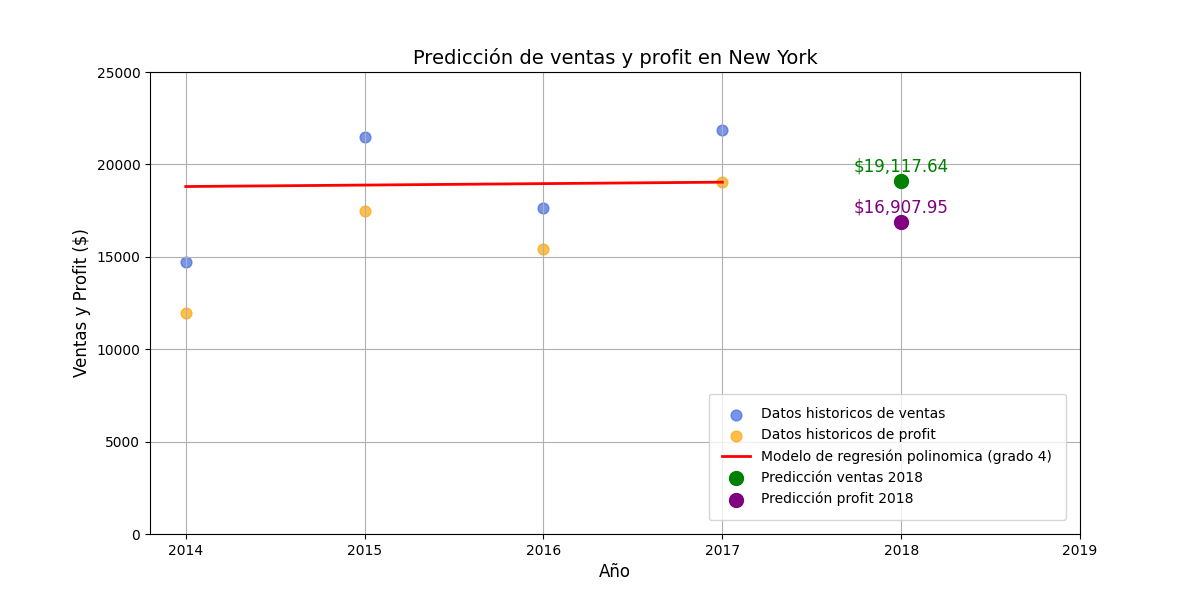
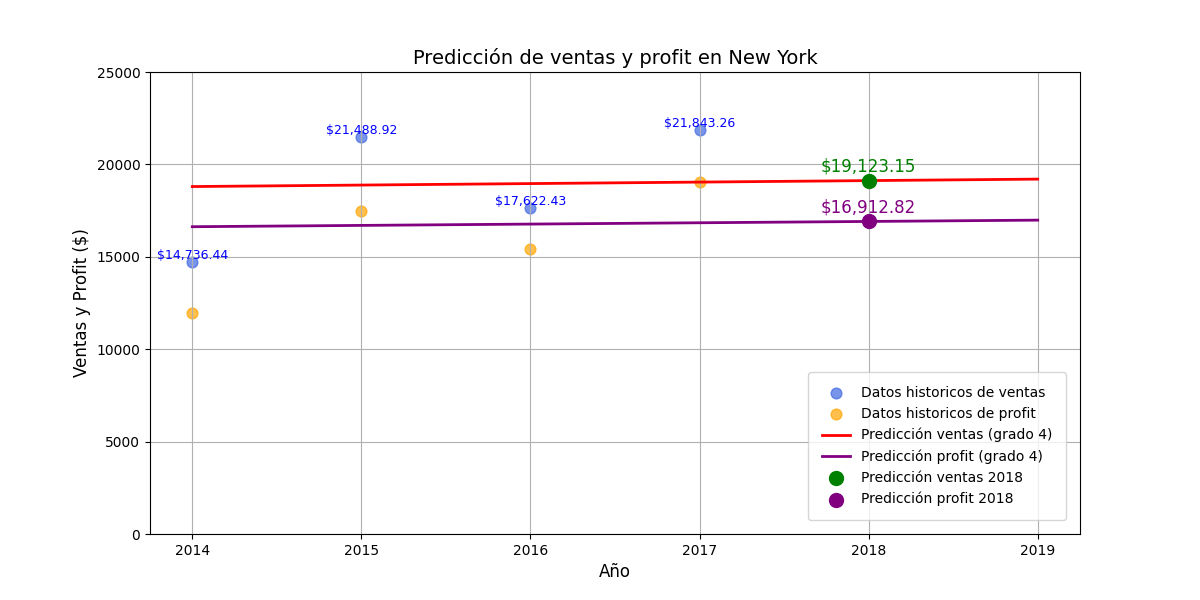
fix: fixed alpha  regulation and image graphic information

diff --git a/main.py b/main.py
@@ -29,7 +29,7 @@ def entrenar_modelo(variables: pd.DataFrame, grado: int) -> tuple[Ridge, Polynom
     X_poly: np.ndarray = poly.fit_transform(variables[["Year", "Profit", "Discount", "Quantity"]])
     scaler = StandardScaler()
     X_poly_scaled = scaler.fit_transform(X_poly)
-    modelo: Ridge = Ridge(alpha=100.0)
+    modelo: Ridge = Ridge(alpha=90.0)
     modelo.fit(X_poly_scaled, variables["Sales"])
     return modelo, poly, scaler
 
@@ -65,24 +65,34 @@ def graficar_resultados(
         variables["Year"], variables["Profit"], color="orange", label="Datos historicos de profit", s=60, alpha=0.7
     )
 
-    years: np.ndarray = np.sort(variables["Year"].unique())
-    avg_profit: float = variables["Profit"].mean()
-    avg_discount: float = variables["Discount"].mean()
-    avg_quantity: float = variables["Quantity"].mean()
-    years_poly: np.ndarray = poly.transform(
+   
+    for i, year in enumerate(variables["Year"]):
+        plt.text(
+            variables["Year"][i], variables["Sales"][i], f"${variables['Sales'][i]:,.2f}", 
+            ha="center", fontsize=9, color="blue", verticalalignment="bottom"
+        )
+        
+    years_extended = np.arange(2014, 2020, 1) 
+    avg_profit = variables["Profit"].mean()
+    avg_discount = variables["Discount"].mean()
+    avg_quantity = variables["Quantity"].mean()
+    years_poly_extended = poly.transform(
         np.column_stack(
             [
-                years,
-                [avg_profit] * len(years),
-                [avg_discount] * len(years),
-                [avg_quantity] * len(years),
+                years_extended,
+                [avg_profit] * len(years_extended),
+                [avg_discount] * len(years_extended),
+                [avg_quantity] * len(years_extended),
             ]
         )
     )
-    years_poly_scaled = scaler.transform(years_poly)
-    sales_pred: np.ndarray = modelo.predict(years_poly_scaled)
+    years_poly_scaled = scaler.transform(years_poly_extended)
+    sales_pred_extended = modelo.predict(years_poly_scaled)
+    profit_pred_extended = sales_pred_extended * (1 - avg_discount)  
 
-    plt.plot(years, sales_pred, color="red", label=f"Modelo de regresión polinomica (grado {grado})", linewidth=2)
+  
+    plt.plot(years_extended, sales_pred_extended, color="red", label=f"Predicción ventas (grado {grado})", linewidth=2)
+    plt.plot(years_extended, profit_pred_extended, color="purple", label=f"Predicción profit (grado {grado})", linewidth=2)
 
     plt.scatter(2018, ventas_2018_pred, color="green", label="Predicción ventas 2018", zorder=5, s=100)
     plt.scatter(2018, profit_2018_pred, color="purple", label="Predicción profit 2018", zorder=5, s=100)
@@ -106,8 +116,6 @@ def graficar_resultados(
     )
     plt.savefig("resultados_prediccion.png")    
     plt.show()
-    
-
 
 def main() -> None:
     file_name: str = "stores_sales_forecasting.csv" 
